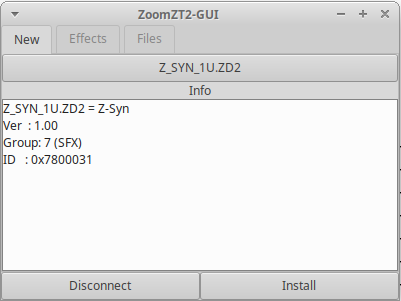
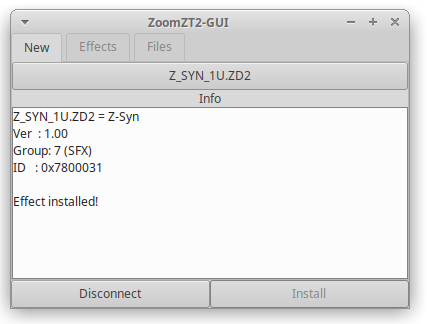
Update readme and pictures

Changed region(s): [[0.0, 0.0, 1.0, 1.0], [0.808, 0.0598, 0.8379, 0.0897]]

diff --git a/readme.md b/readme.md
@@ -14,26 +14,25 @@ This project is not supported/authorized by ZOOM, use at your own risk.
 
 ## Operation.
 
-The 'zoom-zt2.py' script uses MIDI SysEx to control the pedal, and functions
+![Screen Shot](/pictures/ZoomZT2-GUI.png)
+
+The 'zoomzt2-gui.py' script uses MIDI SysEx to control the pedal, and functions
 on Linux and Windows. A pre-built Windows binary is provided in releases for
 convience for those who down have/want Python install.
 
 In order to install a new effect, the binary for the effect must first be located - 
 which can be extracted from the F/W Installer binary via 'Zoom-Firmware-Editor'.
 
-Download current state of FLST_SEQ ("-R -w") from the pedal, then add new effect to 
-it ("-A") and re-uploaded it & the new binary blob ("-S" & "-I").
+Once the script is started it will attempt to connect with the pedal, if not found
+check the connection and press 'Connect'. Click 'Select Effect' and navigate to 
+where you have stored the binary for the desired effect.
 
-```
-$ python3 zoom-zt2.py -R -w try_glamcomp.zt2
-$ python3 zoom-zt2.py -A 1 -n "GLAMCOMP.ZD2" -v "1.10" -i 112 -u 128 -w try_glamcomp.zt2
-Group 1:
-    GLAMCOMP.ZD2
-Add:GLAMCOMP.ZD2
-$ python3 zoom-zt2.py -I "GLAMCOMP.ZD2" -S try_glamcomp.zt2
-```
+The 'Info' window will show some basic parameters for the effect. Click 'Install'
+and the effect will be uploaded to the pedal. The 'Effects' and 'Files' tabs allow
+you to see what is already present on the pedal.
 
-And it's installed... :-)
+The 'zoomzt.py' script can alternatively be used from the command line to modify
+a 'FLST_SEQ.ZT2' file and/or to install/remove effects from a pedal.
 
 ## Effects
 
@@ -50,14 +49,14 @@ G3/G5.
 The AC-2 and AC-3 use a similar '.ZD2' effects, but they do not have a LCD display
 and all effects are in a special 'group 29'.
 
-## Options
+## 'ZoomZT2.py' Options
 
 The script is controlled via command line options, primarily it used for editing the
 contents of '.zt2' files. But it also allows for upload/download to the pedal.
 
 ```
-$ python3 zoom-zt2.py -h
-Usage: zoom-zt2.py [options] FILENAME
+$ python3 zoomzt2.py --help
+Usage: zoomzt2.py [options] FILENAME
 
 Options:
   -h, --help            show this help message and exit
@@ -65,17 +64,14 @@ Options:
   -s, --summary         summarized configuration in human readable form
   -b BUILD, --build=BUILD
                         output commands required to build this FLTS_SEQ
-  -A ADD, --add=ADD     add an effect to group ADD
-  -n NAME, --name=NAME  effect name (use with --add)
+  -A ADD, --add=ADD     add effect to FLST_SEQ
   -v VER, --ver=VER     effect version (use with --add)
   -i ID, --id=ID        effect id (use with --add)
-  -u UNKNOWN, --unknown=UNKNOWN
-                        effect unknown (use with --add)
+  -D DELETE, --delete=DELETE
+                        delete effect from FLST_SEQ
   -t TOGGLE, --toggle=TOGGLE
                         toggle install/uninstall state of effect NAME in
                         FLST_SEQ
-  -D DELETE, --delete=DELETE
-                        delete last effect in group DEL
   -w, --write           write config back to same file
   -R, --receive         Receive FLST_SEQ from attached device
   -S, --send            Send FLST_SEQ to attached device
